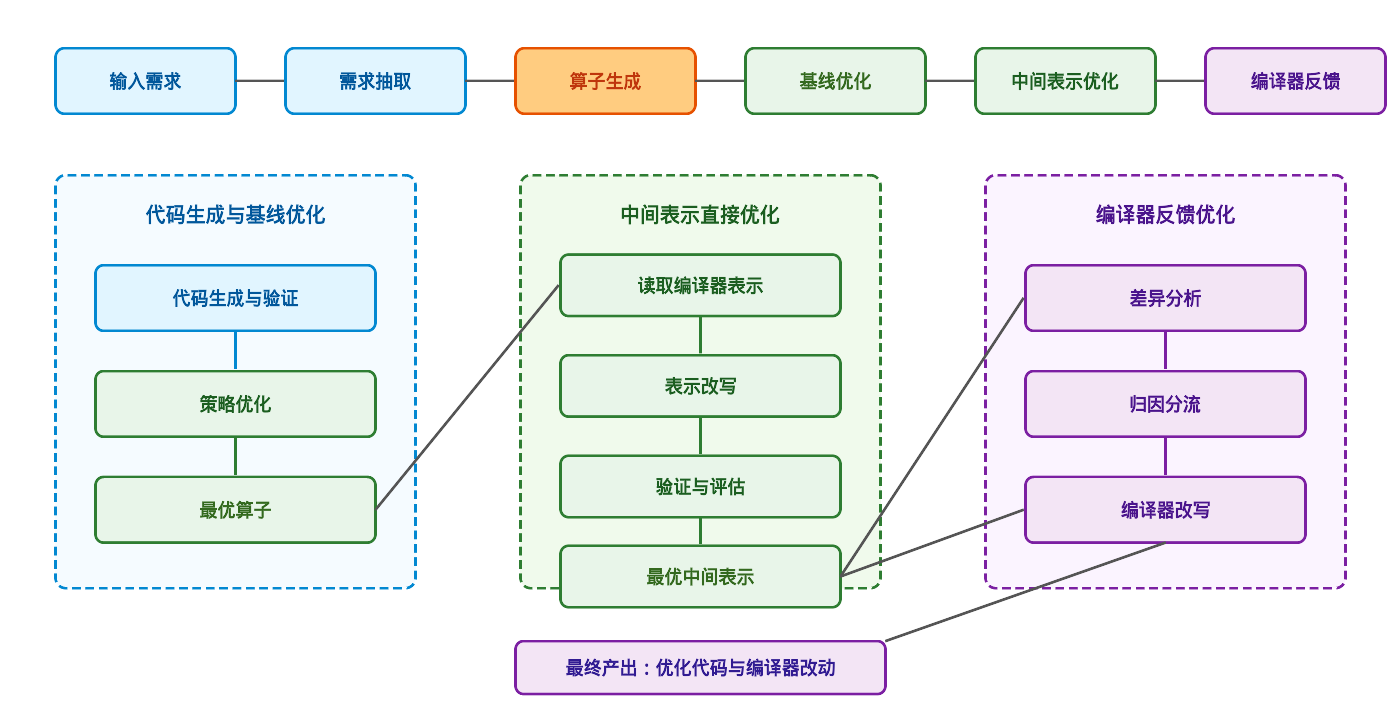
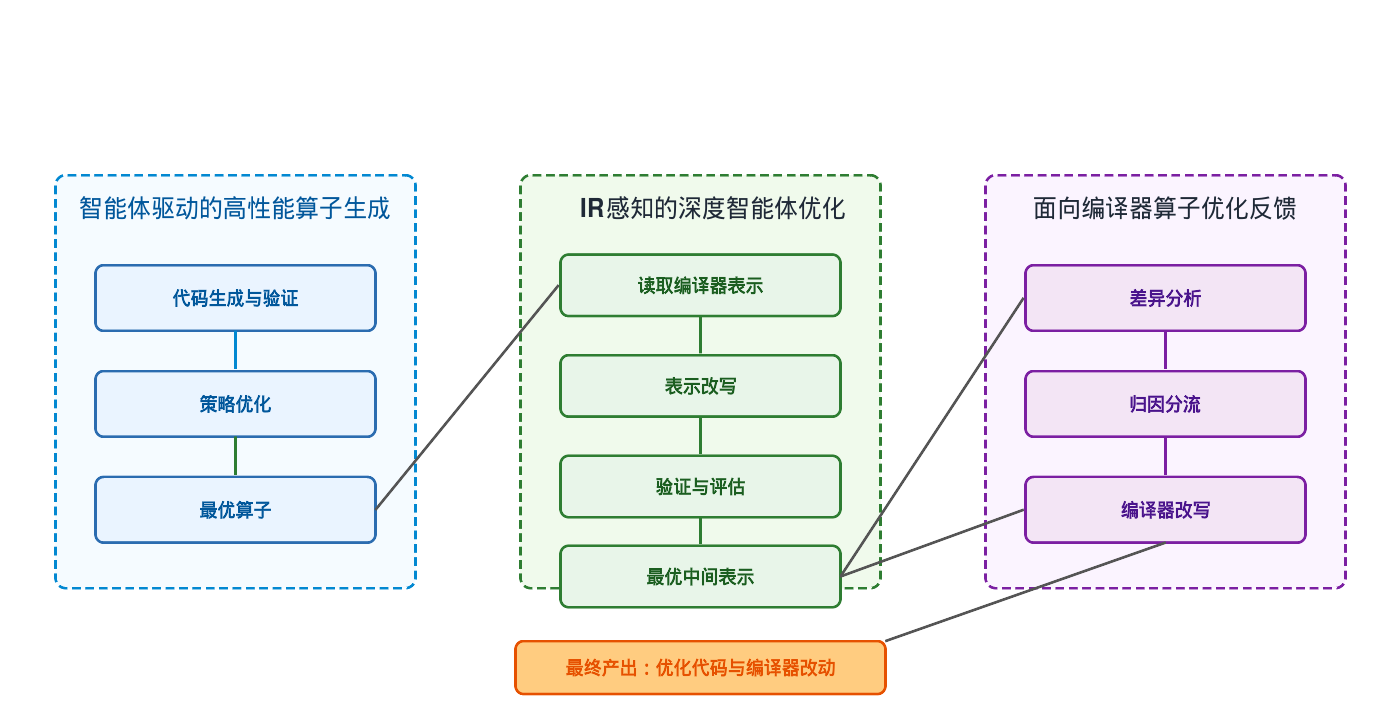
add research contents and arch overview image

diff --git a/Tex/OpeningReport.tex b/Tex/OpeningReport.tex
@@ -67,13 +67,22 @@ TVM构建了从计算图到张量程序和目标代码的端到端编译体系\c
 
 \section{主要研究内容}
 
-本文的主要研究内容划分为三个相互衔接的部分，如图~\ref{fig:research_contents}所示。第一部分是面向高性能Triton算子生成的智能体设计，重点解决如何从算子语义和手写经验出发生成Kernel设计文档、Triton初始程序，并围绕初始程序开展手写经验驱动的优化迭代；第二部分是中间表示感知的深度智能体优化，重点利用已有NPU Triton编译栈和性能瓶颈分析，对优化迭代中的算子进行IR层面的修改和迭代；第三部分是反馈编译器设计研究，重点基于优化后的IR构建从算子Python代码写法到编译器后端Pass优化流水或建议的反馈机制。
+本文的主要研究内容围绕面向NPU Triton后端的算子生成、IR级优化与编译器反馈展开，整体上划分为三个相互衔接的部分，如图~\ref{fig:research_contents}所示。第一部分是面向高性能Triton算子生成的智能体设计，重点解决如何从算子语义和手写经验出发生成Kernel设计文档、Triton初始程序，并围绕初始程序开展手写经验驱动的优化迭代；第二部分是中间表示感知的深度智能体优化，重点利用已有NPU Triton编译栈和性能瓶颈分析，对优化迭代中的算子进行IR层面的修改和迭代；第三部分是反馈编译器设计研究，重点基于优化后的IR构建从算子Python代码写法到编译器后端Pass优化流水或建议的反馈机制。三个部分分别对应从源代码生成到IR优化、再到经验沉淀和反馈的研究链路，共同构成本文的研究内容框架。
+
+\begin{figure}[!htbp]
+    \centering
+    \includegraphics[width=0.95\textwidth]{Img/research_contents.png}
+    \bicaption{主要研究内容及其关系。}{Main research contents and their relationships.}
+    \label{fig:research_contents}
+\end{figure}
+
+在系统设计层面，本文拟构建一个由输入描述、智能体生成、编译验证、IR级优化和反馈编译器共同组成的闭环系统，其整体设计概况如图~\ref{fig:arch_overview}所示。系统以算子描述、PyTorch参考实现、输入形状和目标NPU配置为起点，经过Kernel设计文档生成、Triton初始程序生成、代码级优化、后端IR分析和深度智能体优化等阶段，最终将优化结果、瓶颈诊断和Pass建议反馈到知识库与编译器后端中，从而支撑后续算子的持续生成与优化。
 
 \begin{figure}[!htbp]
     \centering
     \includegraphics[width=0.95\textwidth]{Img/arch_overview.png}
-    \bicaption{主要研究内容及其关系。}{Main research contents and their relationships.}
-    \label{fig:research_contents}
+    \bicaption{整体系统设计概况。}{Overview of the overall system design.}
+    \label{fig:arch_overview}
 \end{figure}
 
 第一，研究面向高性能Triton算子生成的智能体设计。该智能体输入自然语言算子描述、PyTorch参考实现、输入输出形状、数据类型、误差范围和目标硬件信息，首先生成Kernel设计文档，明确算子语义、张量索引关系、并行维度、归约维度、分块层次和中间结果生命周期等；随后根据设计文档生成Triton初始程序，并通过编译检查和差分测试保证初始程序语义正确；然后以该初始程序为优化起点，根据NPU手写Triton算子优化经验设计智能体优化框架，对分块策略、访存方式、归约实现、融合边界和数据搬运组织进行逐轮修改。本文拟将手写高性能Triton算子中的经验组织为可检索的模板和优化策略规则，使智能体在迭代过程中能够借鉴人工优化中的分块、访存、归约和融合经验，以及基于NPU架构特性的性能优化技巧，逐步将初始程序优化为性能接近手写级别的Triton算子。\nocite{jia2019taso}
